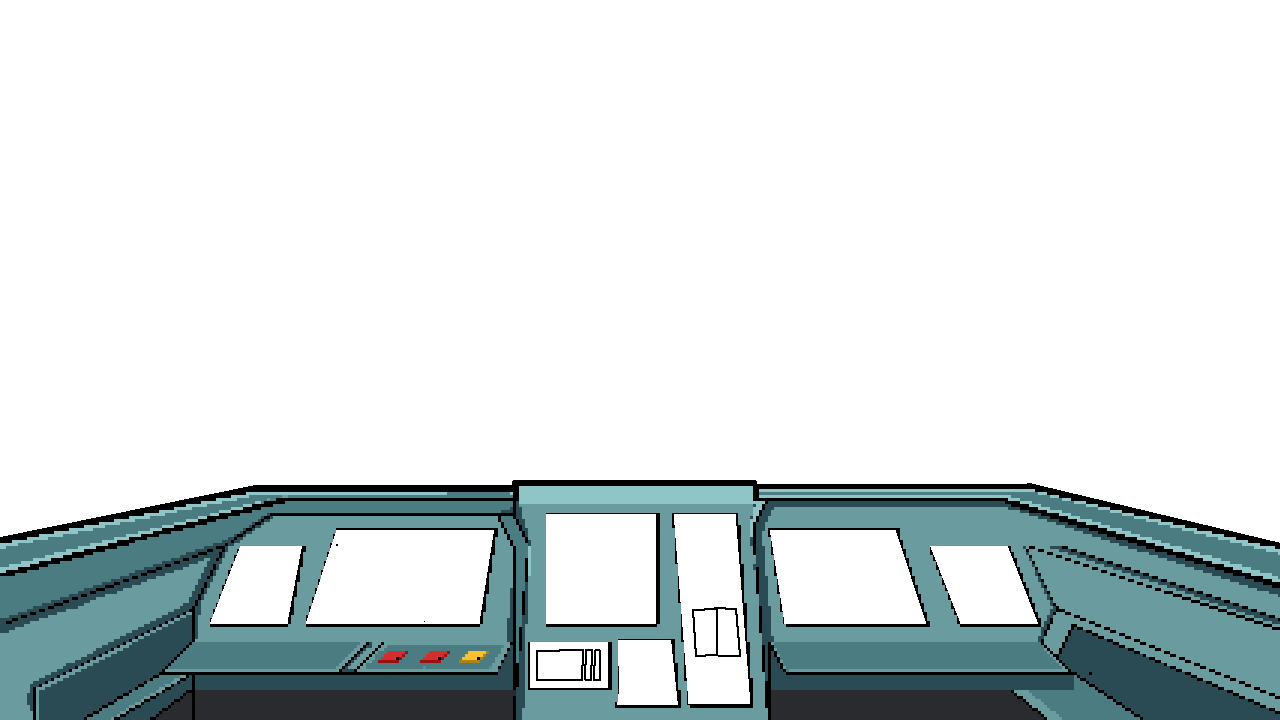
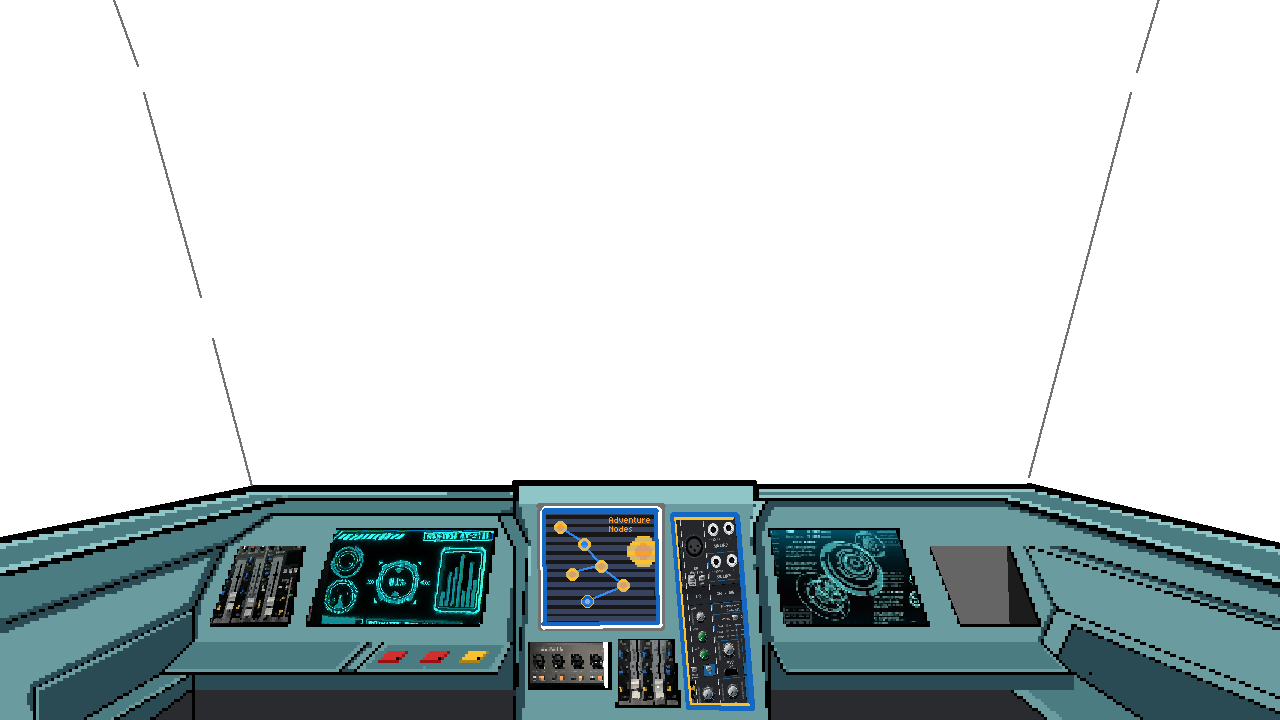
test

Changed region(s): [[0.1562, 0.6722, 0.8125, 1.0]]

diff --git a/capstone_app/frontend/src/pages/PlayerShipDashboard.jsx b/capstone_app/frontend/src/pages/PlayerShipDashboard.jsx
@@ -6,6 +6,34 @@ import cockpitDashboard from "../assets/img/cockpit-dashboard.png";
 import btnAdventure from "../assets/img/btn_adventure-fullreso.png";
 import { clearDemoAuthSession } from "../demoAuth";
 
+const turbineFailurePage = new URL("../concept-main/assets/turbine/turbine_failure.html", import.meta.url).href;
+const galaxyHopsPage = new URL("../concept-main/galaxy_hops.html", import.meta.url).href;
+const overHeatPage = new URL("../concept-main/over_heat.html", import.meta.url).href;
+
+const challengeHitboxes = [
+  {
+    id: "turbine-failure-hitbox",
+    href: turbineFailurePage,
+    title: "Turbine Failure Challenge",
+    left: "20.47%",
+    top: "53.8%",
+  },
+  {
+    id: "galaxy-hops-hitbox",
+    href: galaxyHopsPage,
+    title: "Galaxy Hops Challenge",
+    left: "31.82%",
+    top: "53.8%",
+  },
+  {
+    id: "over-heat-hitbox",
+    href: overHeatPage,
+    title: "Reactor Overheat Challenge",
+    left: "43.75%",
+    top: "53.15%",
+  },
+];
+
 export default function PlayerShipDashboard() {
   const navigate = useNavigate();
   const [showLoading, setShowLoading] = useState(true);
@@ -104,6 +132,17 @@ export default function PlayerShipDashboard() {
       />
 
       <div className={`relative z-10 transition-opacity duration-700 ${showLoading || isNodeMapLoading ? "opacity-0 pointer-events-none" : "opacity-100"}`}>
+        {challengeHitboxes.map((hitbox) => (
+          <a
+            key={hitbox.id}
+            href={hitbox.href}
+            title={hitbox.title}
+            className="absolute z-20 block h-[clamp(52px,5.4vw,88px)] w-[clamp(52px,5.4vw,88px)] -translate-x-1/2 -translate-y-1/2 rounded-full transition hover:bg-cyan-300/25"
+            style={{ left: hitbox.left, top: hitbox.top }}
+            aria-label={hitbox.title}
+          />
+        ))}
+
         <div className="relative mx-auto flex min-h-screen w-full max-w-[1440px] flex-col justify-between px-5 py-6 sm:px-8 lg:px-12">
           <main className="relative flex flex-1 items-center justify-center py-8">
             <div className="relative h-[520px] w-full max-w-[1200px]">

diff --git a/capstone_app/frontend/src/App.jsx b/capstone_app/frontend/src/App.jsx
@@ -107,7 +107,8 @@ export default function App() {
         <Route path="/playershipdashboard/linked-list" element={<LinkedListPage />} />
 
         <Route element={<ProtectedRoute currentUser={currentUser} currentRole={currentRole} isCheckingAuth={isCheckingAuth} allowedRoles={['student']} />}>
-          <Route path="/playershipdashboard" element={<StudentDashboard />} />
+          <Route path="/playershipdashboard" element={<PlayerShipDashboard />} />
+          <Route path="/studentdashboard" element={<StudentDashboard />} />
           <Route path="/playership" element={<PlayerShipDashboard />} />
           <Route path="/nodemapoverlay" element={<NodeMapOverlay />} />
         </Route>